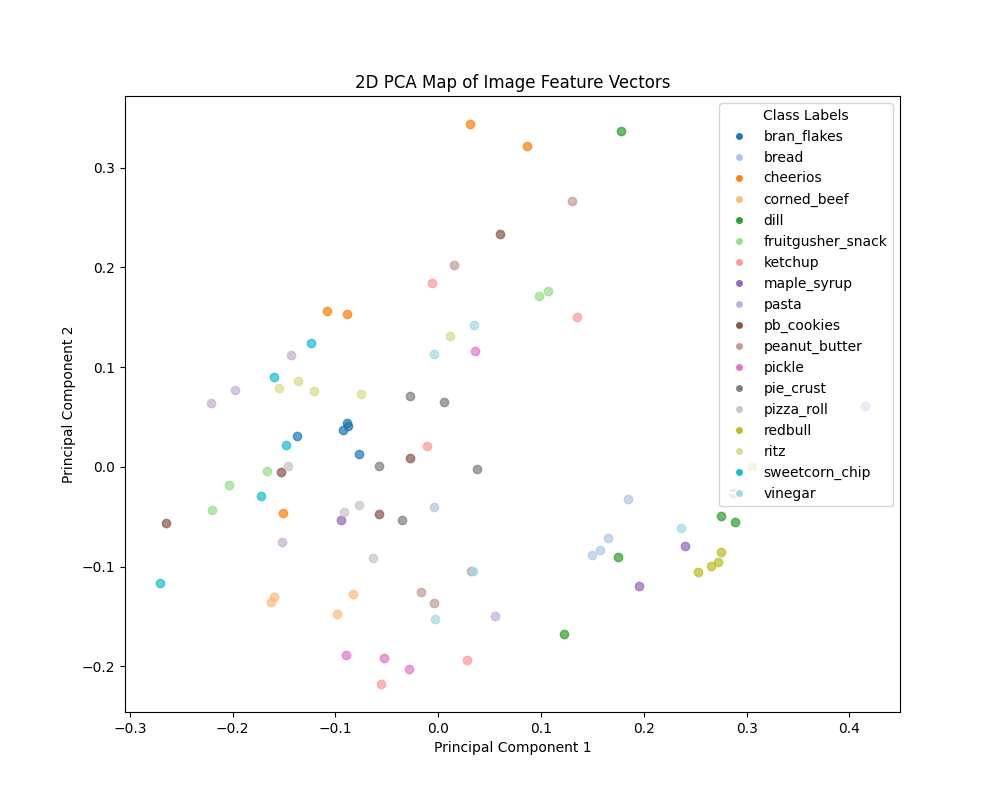
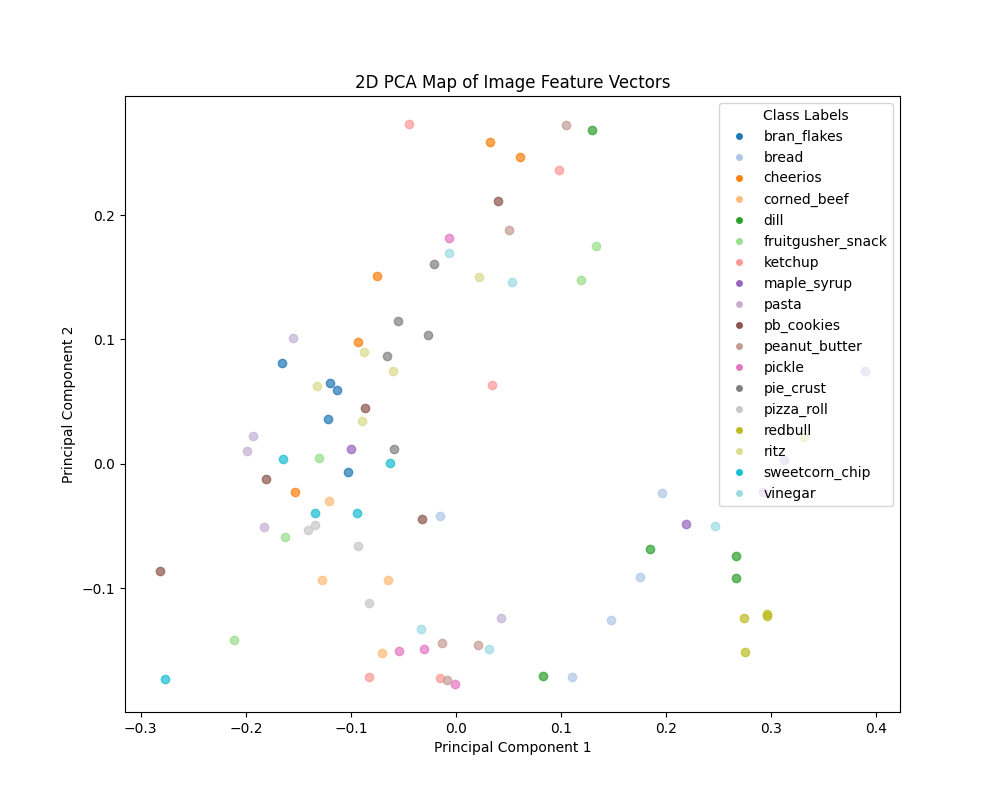
updated tSNE

diff --git a/visual-representation/plot.py b/visual-representation/plot.py
@@ -1,16 +1,18 @@
 import torch
 from sklearn.decomposition import PCA
+from sklearn.manifold import TSNE
 import matplotlib.pyplot as plt
 # from models.resnet_simclr import ResNetSimCLR
 import matplotlib.cm as cm
 import argparse
 import os
-from utils import forward, load_dataset
+from util import forward, load_dataset
 
 parser = argparse.ArgumentParser(description='PyTorch SimCLR')
 parser.add_argument('--data', metavar='DIR', default='./sub_dataset', help='path to dataset')
 # parser.add_argument('--checkpoint', help='trained model checkpoint', required=True)
-parser.add_argument('--filename', help='pca filename', required=True)
+parser.add_argument('--filename', help='filename', required=True)
+parser.add_argument('--representation',metavar='pca/tsne', help='type of visualization', required=True)
 args = parser.parse_args()
 
 # Data Loading
@@ -23,35 +25,39 @@ dataset, dataloader, idx_to_class = load_dataset.dataset(args.data)
 # state_dict = checkpoint['state_dict']  
 # log = model.load_state_dict(state_dict, strict=False)
 
-# model = torch.hub.load('facebookresearch/dino:main', 'dino_vits8')
-model = torch.hub.load('facebookresearch/swav:main', 'resnet50')
+model = torch.hub.load('facebookresearch/dino:main', 'dino_vits8')
+# model = torch.hub.load('facebookresearch/swav:main', 'resnet50')
 
 # Extract feature vectors
 feature_vectors, labels = forward.get_features_labels(dataloader, model)
 
 # Load PCA with 2 components and fit the feature vectors
-pca = PCA(n_components=2)
-pca_result = pca.fit_transform(feature_vectors)
+if args.representation == 'pca':
+    rep = PCA(n_components=2)
+    rep_result = rep.fit_transform(feature_vectors)
+elif args.representation == 'tsne':
+    rep = TSNE(n_components=2, random_state=42)
+    rep_result = rep.fit_transform(feature_vectors)
 
 # Generate a color map with 1000 distinct colors
 color_map = cm.get_cmap('tab20', len(dataset.classes))
 
 plt.figure(figsize=(10, 8))
 
-for i in range(len(pca_result)):
+for i in range(len(rep_result)):
     label = labels[i]
     color = color_map(label)
-    plt.scatter(pca_result[i, 0], pca_result[i, 1], color=color, alpha=0.7)
+    plt.scatter(rep_result[i, 0], rep_result[i, 1], color=color, alpha=0.7)
 
 # Create a legend for the color-coded labels
 legend_elements = [plt.Line2D([0], [0], marker='o', color='w', markerfacecolor=color_map(label), label=idx_to_class[label])
                    for label in list(set(labels))]
 plt.legend(handles=legend_elements, title='Class Labels', loc='upper right')
 
-plt.xlabel('Principal Component 1')
-plt.ylabel('Principal Component 2')
-plt.title('2D PCA Map of Image Feature Vectors')
+plt.xlabel('Component 1')
+plt.ylabel('Component 2')
+plt.title(f'2D {args.representation} Map of Image Feature Vectors')
 
-save_path = os.path.join('results/pca', f"{args.filename}.png")
+save_path = os.path.join(f'results/{args.representation}', f"{args.filename}.png")
 plt.savefig(save_path)
 plt.close()
